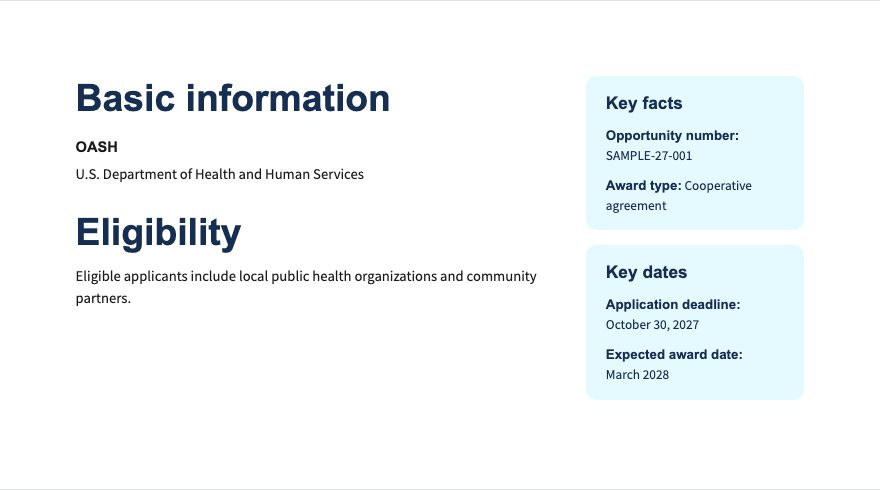
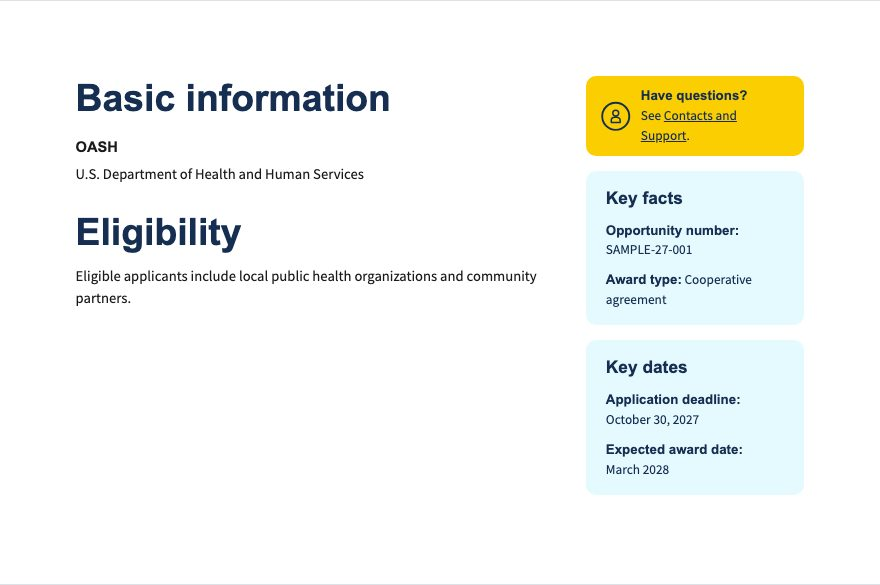
feat: distinguish the OASH questions callout

diff --git a/nofos/bloom_nofos/static/theme-opdiv-oash-navy.css b/nofos/bloom_nofos/static/theme-opdiv-oash-navy.css
@@ -38,7 +38,8 @@
   color: var(--color--oash-blue);
 }
 
-.nofo--cover-page--callout-box {
+.nofo--cover-page--callout-box,
+.section--content--right-col .callout-box--questions {
   background-color: var(--color--oash-gold);
   color: var(--color--oash-navy);
 }
@@ -146,7 +147,8 @@
     margin-right: 0;
   }
 
-  .nofo--cover-page--callout-box {
+  .nofo--cover-page--callout-box,
+.section--content--right-col .callout-box--questions {
     margin-right: 0;
   }
 

diff --git a/documentation/review-evidence/1421/README.md b/documentation/review-evidence/1421/README.md
@@ -9,7 +9,7 @@ These screenshots show Builder’s HTML preview for a synthetic NOFO in Chromium
 | Text only cover and update banner | [Desktop](cover-text.jpg) · [Mobile](cover-mobile.jpg) |
 | Standard image cover | [Desktop](cover-image.jpg) |
 | Table of contents | [Outlined icons](contents-outlined.jpg) · [Filled icons](contents-filled.jpg) |
-| Basic information | [Key facts and Key dates](basic-information.jpg) |
+| Basic information | [Have questions?, Key facts, and Key dates](basic-information.jpg) |
 | Help with systems | [Registration callout](help-with-systems.jpg) |
 | Contact and support | [Support callout](contact-and-support.jpg) |
 | Interstitial step pages | [Review the Opportunity](step-review.jpg) · [Contacts and Support](step-contact.jpg) |
@@ -24,7 +24,7 @@ Ratios use WCAG 2.2 relative luminance. Compare normal text to the [4.5:1 minimu
 | White `#FFFFFF` | Navy `#162E51` | 13.60:1 | Cover header, Filled icon glyphs and group label |
 | Navy `#162E51` | White `#FFFFFF` | 13.60:1 | Headings, Contents, active step and Outlined icons |
 | Navy `#162E51` | Pale blue `#E5FAFF` | 12.60:1 | Callout headings, text and links, and checklist header text |
-| Navy `#162E51` | Gold `#FACE00` | 9.00:1 | Cover update notice and link |
+| Navy `#162E51` | Gold `#FACE00` | 9.00:1 | Cover update notice, Have questions? callout, and their links |
 | Primary blue `#005EA2` | White `#FFFFFF` | 6.72:1 | Body links |
 | Gray `#5C5C5C` | White `#FFFFFF` | 6.69:1 | Inactive step labels and checklist grid |
 | Gray `#5C5C5C` | Pale blue `#E5FAFF` | 6.19:1 | Checklist header grid |
